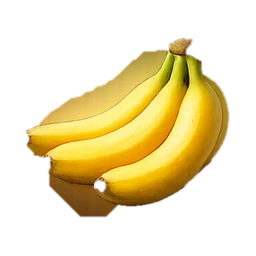
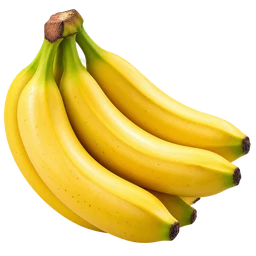
Expand shopping list thumbnails

diff --git a/src/plus/smartShoppingThumbnails.ts b/src/plus/smartShoppingThumbnails.ts
@@ -253,6 +253,11 @@ const EXACT_THUMBNAIL_KEYS: Record<string, string> = {
   "baby spinach": "spinach",
   "spinach leaves": "spinach",
 
+  broccoli: "broccoli",
+  "broccoli florets": "broccoli",
+  "fresh broccoli": "broccoli",
+  "chopped broccoli": "broccoli",
+
   // Spices
   "garlic powder": "garlic-powder",
   "onion powder": "onion-powder",
@@ -470,6 +475,12 @@ const AVAILABLE_LOCAL_THUMBNAIL_KEYS =
     "red-bell-pepper",
     "yellow-bell-pepper",
     "orange-bell-pepper",
+    "onion",
+    "white-onion",
+    "red-onion",
+    "potato",
+    "sweet-potato",
+    "bell-pepper",
     "tomato",
     "avocado",
     "carrot",
@@ -485,6 +496,7 @@ const AVAILABLE_LOCAL_THUMBNAIL_KEYS =
     "cilantro",
     "ginger",
     "spinach",
+    "broccoli",
 
     "milk",
     "eggs",
@@ -543,11 +555,24 @@ const AVAILABLE_LOCAL_THUMBNAIL_KEYS =
     "rice",
     "oats",
     "spaghetti",
+    "pasta",
     "bread",
     "egg-noodles",
     "penne",
     "mashed-potatoes",
     "baked-potato",
+
+    "bagels",
+    "black-beans",
+    "canned-black-beans",
+    "dried-black-beans",
+    "hamburger-buns",
+    "hot-dog-buns",
+    "orange",
+    "tortillas",
+    "water",
+    "soda",
+    "energy-drink",
   ]);
 
 export function hasLocalSmartShoppingThumbnail(
